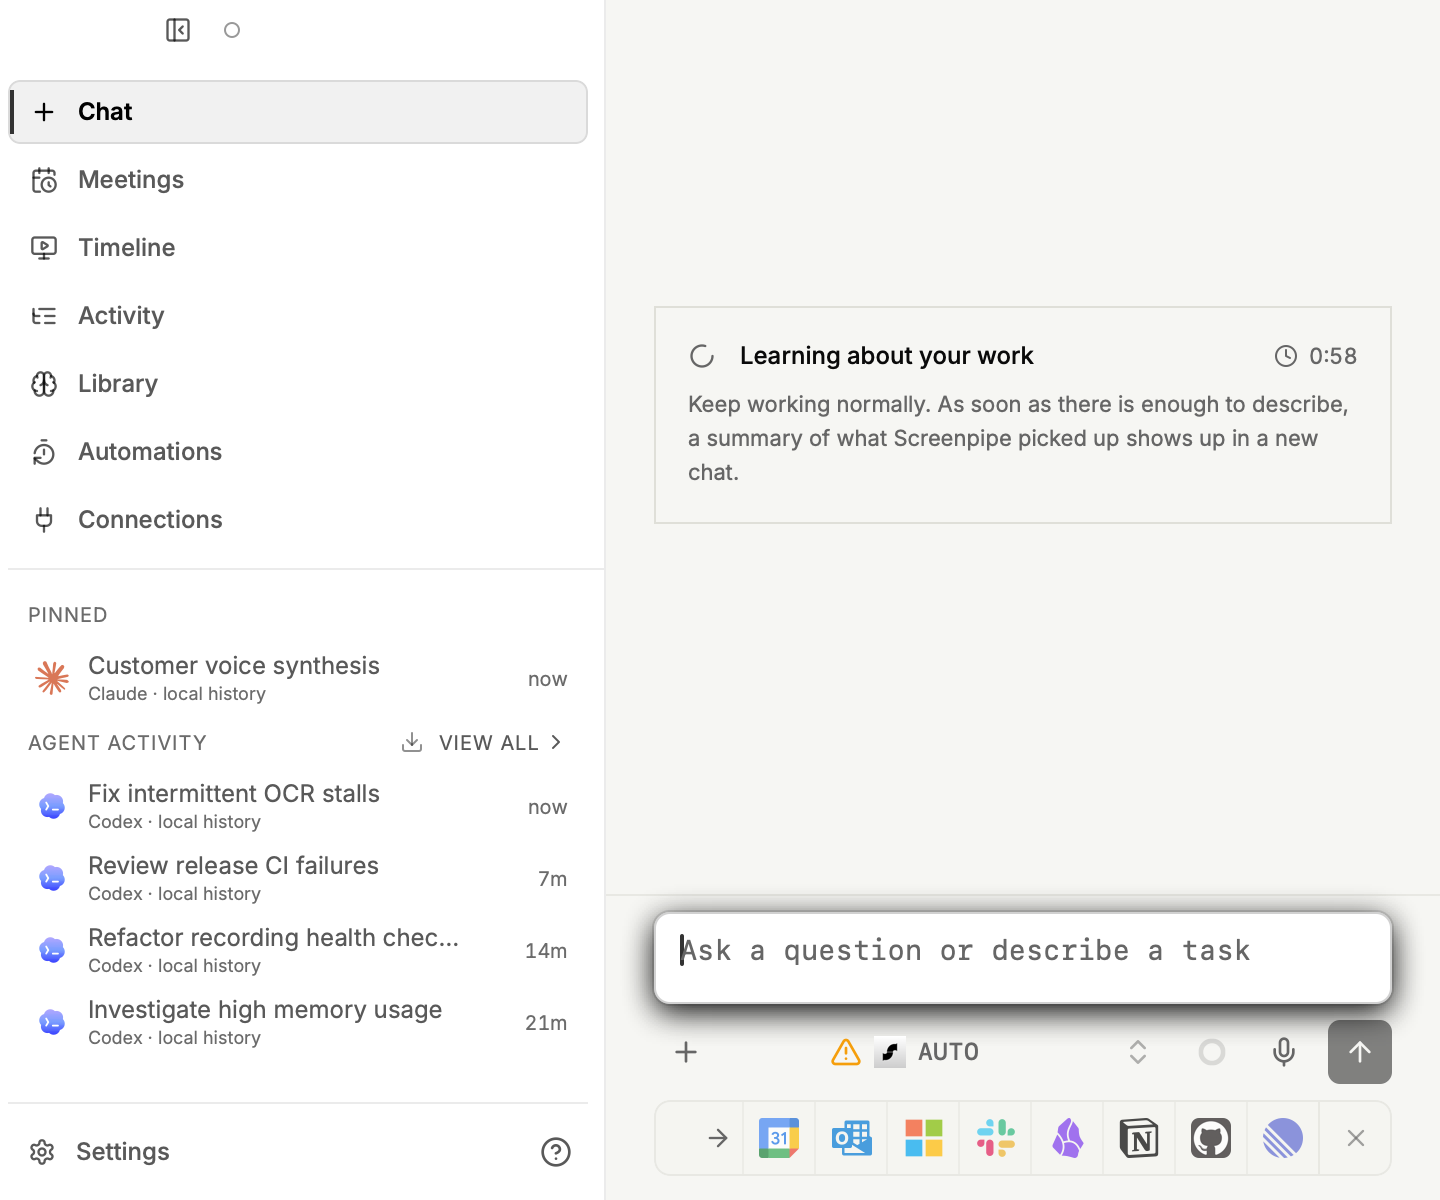
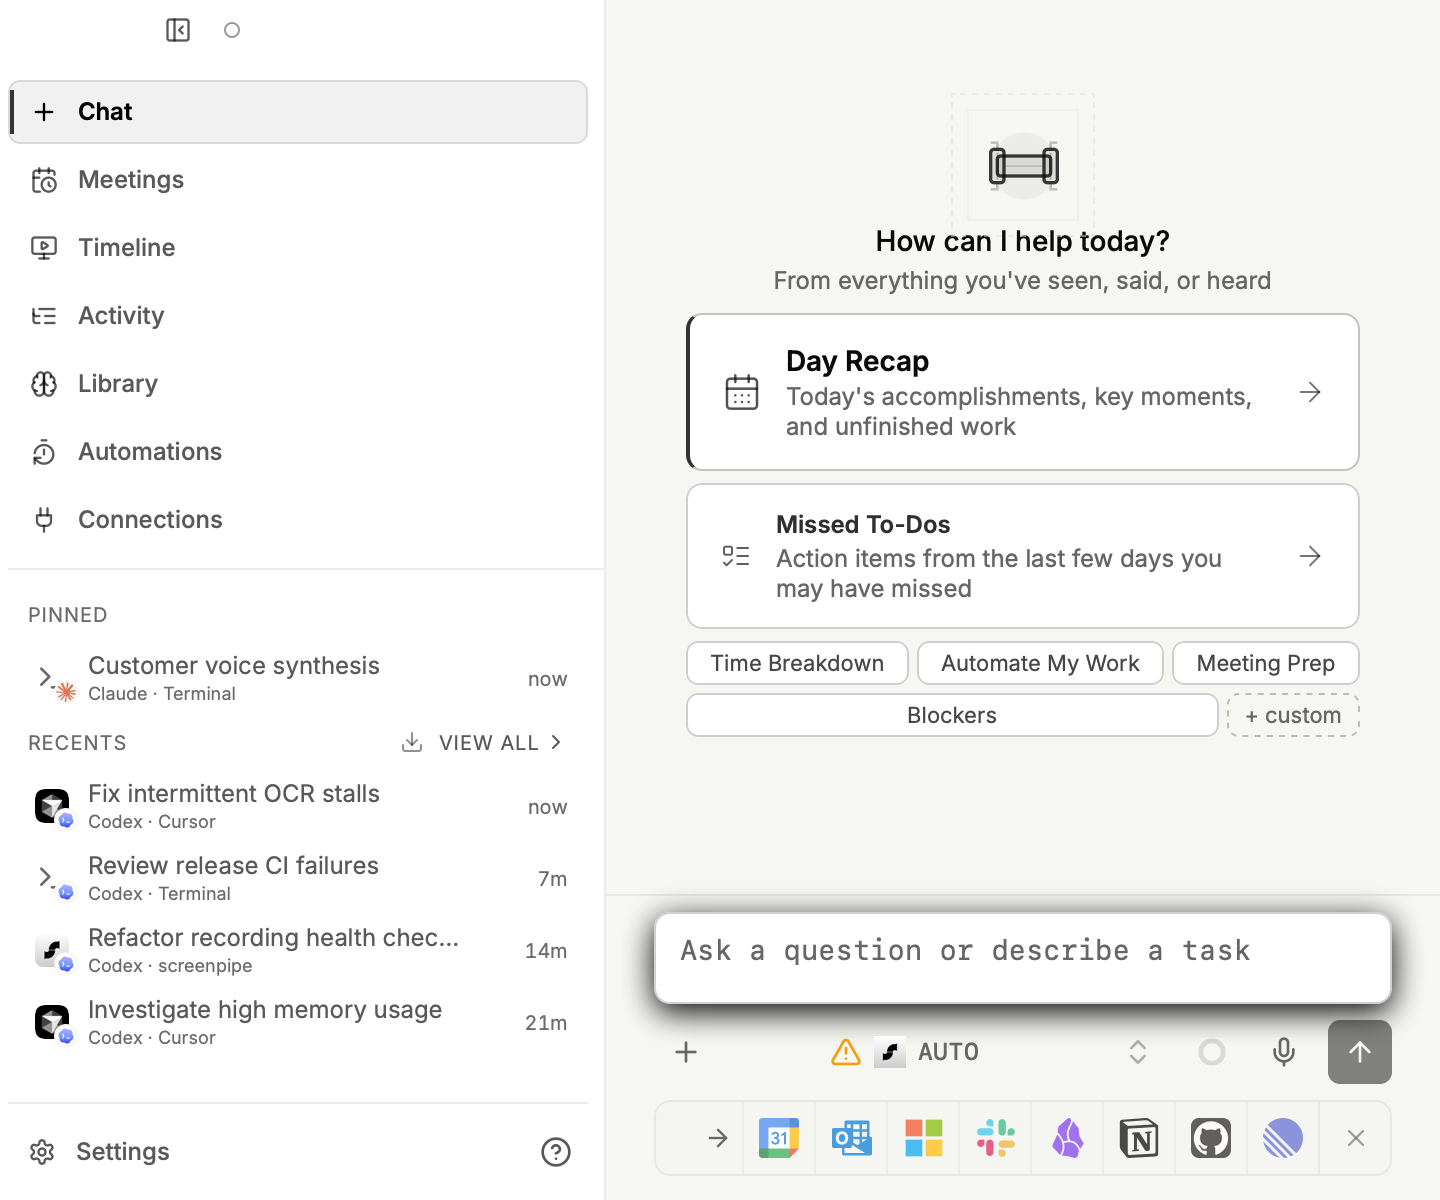
feat: unify agent chats in recents

diff --git a/apps/screenpipe-app-tauri/components/chat-sidebar.tsx b/apps/screenpipe-app-tauri/components/chat-sidebar.tsx
@@ -47,6 +47,7 @@ import {
   Pencil,
   FolderOpen,
   Timer,
+  Terminal,
   Download,
 } from "lucide-react";
 import { usePlatform } from "@/lib/hooks/use-platform";
@@ -1292,7 +1293,7 @@ export function ChatSidebar({ className, onViewAll }: ChatSidebarProps) {
 
           <div className="group/recents min-h-0 flex flex-col">
             <Section
-              title="agent activity"
+              title="recents"
               collapsed={recentsCollapsed}
               onCollapsedChange={setRecentsCollapsed}
               headerAction={
@@ -2491,6 +2492,29 @@ export function SidebarChatRow({
       : importedSource === "codex"
         ? "Codex"
         : null;
+  const harness = session.importedFrom?.harness ?? (sourceLabel ? null : "screenpipe");
+  const harnessLabel =
+    harness === "github-copilot"
+      ? "GitHub Copilot"
+      : harness === "cursor"
+        ? "Cursor"
+        : harness === "screenpipe"
+          ? "screenpipe"
+          : harness === "terminal"
+            ? "Terminal"
+            : null;
+  const harnessIcon =
+    harness === "github-copilot"
+      ? "/images/acp/github-copilot-cli.svg"
+      : harness === "cursor"
+        ? "/images/cursor.png"
+        : harness === "screenpipe"
+          ? "/images/screenpipe.png"
+          : harness === "terminal"
+            ? null
+            : importedSource === "claude-code"
+              ? "/images/claude-ai.svg"
+              : "/images/codex.svg";
   // The row is both the click target and the right-click (context menu)
   // anchor. The kebab below stays as a discoverable, mouse-only entry point;
   // both menus render the same `RowMenuItems`.
@@ -2528,22 +2552,36 @@ export function SidebarChatRow({
           onSelect(session.id);
         }}
       >
-        {sourceLabel && (
-          <span
-            className="flex h-5 w-5 shrink-0 items-center justify-center"
-            aria-label={`${sourceLabel} provider`}
-            title={sourceLabel}
-          >
+        <span
+          className="relative flex h-5 w-5 shrink-0 items-center justify-center"
+          aria-label={harnessLabel ? `${harnessLabel} harness` : `${sourceLabel} source`}
+          title={harnessLabel ? `${harnessLabel}${sourceLabel ? ` · ${sourceLabel}` : ""}` : sourceLabel ?? undefined}
+        >
+          {harnessIcon ? (
             <Image
-              src={importedSource === "claude-code" ? "/images/claude-ai.svg" : "/images/codex.svg"}
+              src={harnessIcon}
               alt=""
               width={17}
               height={17}
-              className="h-[17px] w-[17px] object-contain"
+              className="h-[17px] w-[17px] rounded-[4px] object-contain"
               unoptimized
             />
-          </span>
-        )}
+          ) : (
+            <Terminal className="h-4 w-4 sidebar-text-tertiary" aria-hidden />
+          )}
+          {sourceLabel && harnessLabel && (
+            <span className="absolute -bottom-0.5 -right-0.5 flex h-2.5 w-2.5 items-center justify-center rounded-full bg-background ring-1 ring-background">
+              <Image
+                src={importedSource === "claude-code" ? "/images/claude-ai.svg" : "/images/codex.svg"}
+                alt=""
+                width={10}
+                height={10}
+                className="h-2.5 w-2.5 rounded-full object-contain"
+                unoptimized
+              />
+            </span>
+          )}
+        </span>
         {!insideGroup && (session.kind === "pipe-run" || session.kind === "pipe-watch") && (
           <Timer className="h-3 w-3 shrink-0 sidebar-text-tertiary" aria-hidden />
         )}
@@ -2564,7 +2602,7 @@ export function SidebarChatRow({
           </span>
           {sourceLabel && (
             <span className="block truncate text-[9px] leading-3 sidebar-text-tertiary">
-              {sourceLabel} · {session.kind === "pipe-run" ? "automation" : "local history"}
+              {sourceLabel} · {harnessLabel ?? "imported"}
             </span>
           )}
         </span>

diff --git a/apps/screenpipe-app-tauri/e2e/specs/chat-agent-activity-sidebar.spec.ts b/apps/screenpipe-app-tauri/e2e/specs/chat-agent-activity-sidebar.spec.ts
@@ -20,6 +20,7 @@ function writeImportedConversation(
   source: "codex" | "claude-code",
   offsetMs: number,
   pinned = false,
+  harness: "terminal" | "cursor" | "github-copilot" | "screenpipe" = "terminal",
 ): void {
   const now = Date.now() + offsetMs;
   fixtureIds.add(id);
@@ -37,7 +38,7 @@ function writeImportedConversation(
       lastUserMessageAt: now,
       lastContentAt: now + 1,
       lastViewedAt: now + 1,
-      importedFrom: { source, sourceId: `${source}-fixture`, importedAt: now },
+      importedFrom: { source, sourceId: `${source}-fixture`, importedAt: now, harness },
       messages: [
         { id: `${id}-user`, role: "user", content: title, timestamp: now },
         { id: `${id}-assistant`, role: "assistant", content: "Fixture reply", timestamp: now + 1 },
@@ -77,7 +78,7 @@ async function setTheme(theme: "light" | "dark"): Promise<void> {
   }, theme);
 }
 
-describe("agent activity sidebar", function () {
+describe("unified recents sidebar", function () {
   this.timeout(120_000);
 
   before(async () => {
@@ -99,8 +100,8 @@ describe("agent activity sidebar", function () {
     await codexRow.waitForDisplayed({ timeout: t(10_000) });
     await claudeRow.waitForDisplayed({ timeout: t(10_000) });
 
-    expect(await codexRow.getText()).toContain("Codex · local history");
-    expect(await claudeRow.getText()).toContain("Claude · local history");
+    expect(await codexRow.getText()).toContain("Codex · Terminal");
+    expect(await claudeRow.getText()).toContain("Claude · Terminal");
     expect(await $("[aria-label='sync Codex and Claude chats']").isDisplayed()).toBe(true);
 
     await saveScreenshot("chat-agent-activity-sidebar-light");
@@ -129,6 +130,7 @@ describe("agent activity sidebar", function () {
         index % 2 === 0 ? "codex" : "claude-code",
         -index * 4 * 60_000,
         index < 2,
+        (["cursor", "screenpipe", "github-copilot", "terminal"] as const)[index % 4],
       );
     });
     await reloadFixture({ expandPinned: true, height: 1200 });
@@ -171,6 +173,8 @@ describe("agent activity sidebar", function () {
         title,
         "codex",
         -index * 7 * 60_000,
+        false,
+        (["cursor", "terminal", "screenpipe"] as const)[index % 3],
       );
     });
     await reloadFixture({ expandPinned: true, height: 1200 });

diff --git a/apps/screenpipe-app-tauri/lib/hooks/use-settings.tsx b/apps/screenpipe-app-tauri/lib/hooks/use-settings.tsx
@@ -195,6 +195,9 @@ export interface ChatMessage {
  *                    rather than "Recents". */
 export type ConversationKind = "chat" | "pipe-watch" | "pipe-run";
 
+/** The client surface that hosted an imported agent conversation. */
+export type AgentHarness = "terminal" | "cursor" | "github-copilot" | "screenpipe";
+
 /** Pipe-specific context attached to `pipe-watch` / `pipe-run`
  *  conversations. Drives the in-panel banner and the sidebar
  *  grouping. */
@@ -215,6 +218,8 @@ export interface ChatConversation {
 		source: "claude-code" | "codex";
 		sourceId: string;
 		importedAt: number;
+		/** Optional when the transcript exposes which client hosted the run. */
+		harness?: AgentHarness;
 	};
 	/** User pinned this conversation in the chat sidebar — keeps it at the top.
 	 *  Persists across app restarts via the on-disk conversation file. */

diff --git a/apps/screenpipe-app-tauri/components/__tests__/chat-sidebar-focus.test.tsx b/apps/screenpipe-app-tauri/components/__tests__/chat-sidebar-focus.test.tsx
@@ -98,10 +98,15 @@ describe("SidebarChatRow current conversation", () => {
 
   it("shows Codex provenance for imported local history", () => {
     renderRow(false, "idle", {
-      importedFrom: { source: "codex", sourceId: "thread-1", importedAt: 100 },
+      importedFrom: {
+        source: "codex",
+        sourceId: "thread-1",
+        importedAt: 100,
+        harness: "terminal",
+      },
     });
 
-    expect(screen.getByLabelText("Codex provider")).toBeVisible();
-    expect(screen.getByText("Codex · local history")).toBeVisible();
+    expect(screen.getByLabelText("Terminal harness")).toBeVisible();
+    expect(screen.getByText("Codex · Terminal")).toBeVisible();
   });
 });

diff --git a/apps/screenpipe-app-tauri/lib/__tests__/chat-storage.test.ts b/apps/screenpipe-app-tauri/lib/__tests__/chat-storage.test.ts
@@ -307,13 +307,19 @@ describe("chat-storage bounded history", () => {
       createdAt: 100,
       updatedAt: 200,
       messages: [{ id: "u1", role: "user", content: "hello", timestamp: 100 }],
-      importedFrom: { source: "codex", sourceId: "thread-1", importedAt: 300 },
+      importedFrom: {
+        source: "codex",
+        sourceId: "thread-1",
+        importedAt: 300,
+        harness: "cursor",
+      },
     });
 
     expect(meta?.importedFrom).toEqual({
       source: "codex",
       sourceId: "thread-1",
       importedAt: 300,
+      harness: "cursor",
     });
   });
 

diff --git a/apps/screenpipe-app-tauri/lib/chat-storage.ts b/apps/screenpipe-app-tauri/lib/chat-storage.ts
@@ -14,6 +14,7 @@ import {
   stat,
 } from "@tauri-apps/plugin-fs";
 import type {
+  AgentHarness,
   ChatConversation,
   ConversationKind,
   PipeContext,
@@ -365,6 +366,7 @@ export interface ConversationMeta {
     source: "claude-code" | "codex";
     sourceId: string;
     importedAt: number;
+    harness?: AgentHarness;
   };
 }
 

diff --git a/apps/screenpipe-app-tauri/e2e/COVERAGE.md b/apps/screenpipe-app-tauri/e2e/COVERAGE.md
@@ -115,7 +115,7 @@ pass/fail/skip counts.
 | capture-restart-device-recovery.spec.ts | windows, macos | audio-device, local-api, real-ui-e2e | audio-device-health | high | conditional | real-user-flow | 3 | Opt-in real-audio continuous lane for #6089: a capture-session restart must bring back the same running device set, and the device monitor must survive to recover a device stopped afterwards. |
 | capture-stall-recovery.spec.ts | macos | capture-ocr, local-api, os-integration, real-ui-e2e | app-launch, capture-ocr, health, recording-health-alerts | high | conditional | mixed | 3 | Opt-in macOS full-stack lane proves all selected user-paused monitors remain an intentional disabled/normal state and resume cleanly, bounds a wedged SCK frame worker, proves the privacy-gated CoreGraphics fallback, reproduces a status-Running capture loop going silent, verifies stale and the failure pill, independent per-monitor stall detection with a VisionManager restart and resumed terminal capture progress, same-process UI recovery, and bounded id-based SCK lookup retry. |
 | capture-stall-stage-marker.spec.ts | macos | capture-ocr, local-api, os-integration | app-launch, capture-ocr | high | conditional | api | 1 | Opt-in macOS fault injection parks the capture loop; asserts /health names the frozen CaptureLoopStage with an advancing age while frame_status is stale, and that the stage age collapses once the watchdog recovers capture. |
-| chat-agent-activity-sidebar.spec.ts | windows, macos, linux | chat-ai, real-ui-e2e | chat, chat-sidebar-groups | high | strong | real-user-flow | 1 | Imported local Codex and Claude conversations remain distinguishable in Agent activity, expose their provenance, and keep the local-history sync action available. Captures sparse, crowded mixed-provider, and Codex-heavy native UI states, including expanded pinned rows and the capped recent working set. |
+| chat-agent-activity-sidebar.spec.ts | windows, macos, linux | chat-ai, real-ui-e2e | chat, chat-sidebar-groups | high | strong | real-user-flow | 1 | Imported Codex and Claude conversations share one Recents stream with native screenpipe chats while retaining traceable provider and harness provenance. Captures sparse, crowded mixed-provider, and Codex-heavy native UI states with Terminal, Cursor, screenpipe, and GitHub Copilot harnesses, expanded pinned rows, and the capped recent working set. |
 | chat-ask-user-tool-card.spec.ts | windows, macos, linux | chat-ai, real-ui-e2e | chat, chat-tools, pi-ask-user | medium | partial | mixed | 1 | Synthetic assistant tool block renders the Pi ask_user dropdown and sends the selected answer through the normal chat reply path. |
 | chat-automation-card-duplicate.spec.ts | windows, macos, linux | chat-ai, real-ui-e2e | chat, chat-home-card-placeholder-preview, chat-sidebar-dedupe, chat-session-activity | medium | partial | real-user-flow | 1 | The Day Recap automation card previews its user-facing prompt in the empty composer on hover, restores the default placeholder on leave, and creates exactly one persisted conversation and one sidebar row; status-only activity for an unknown session must not create an empty untitled sibling. |
 | chat-composer-isolation.spec.ts | windows, macos, linux | chat-ai, real-ui-e2e | chat, chat-drafts | medium | partial | mixed | 1 | Composer draft isolation across conversations. |
